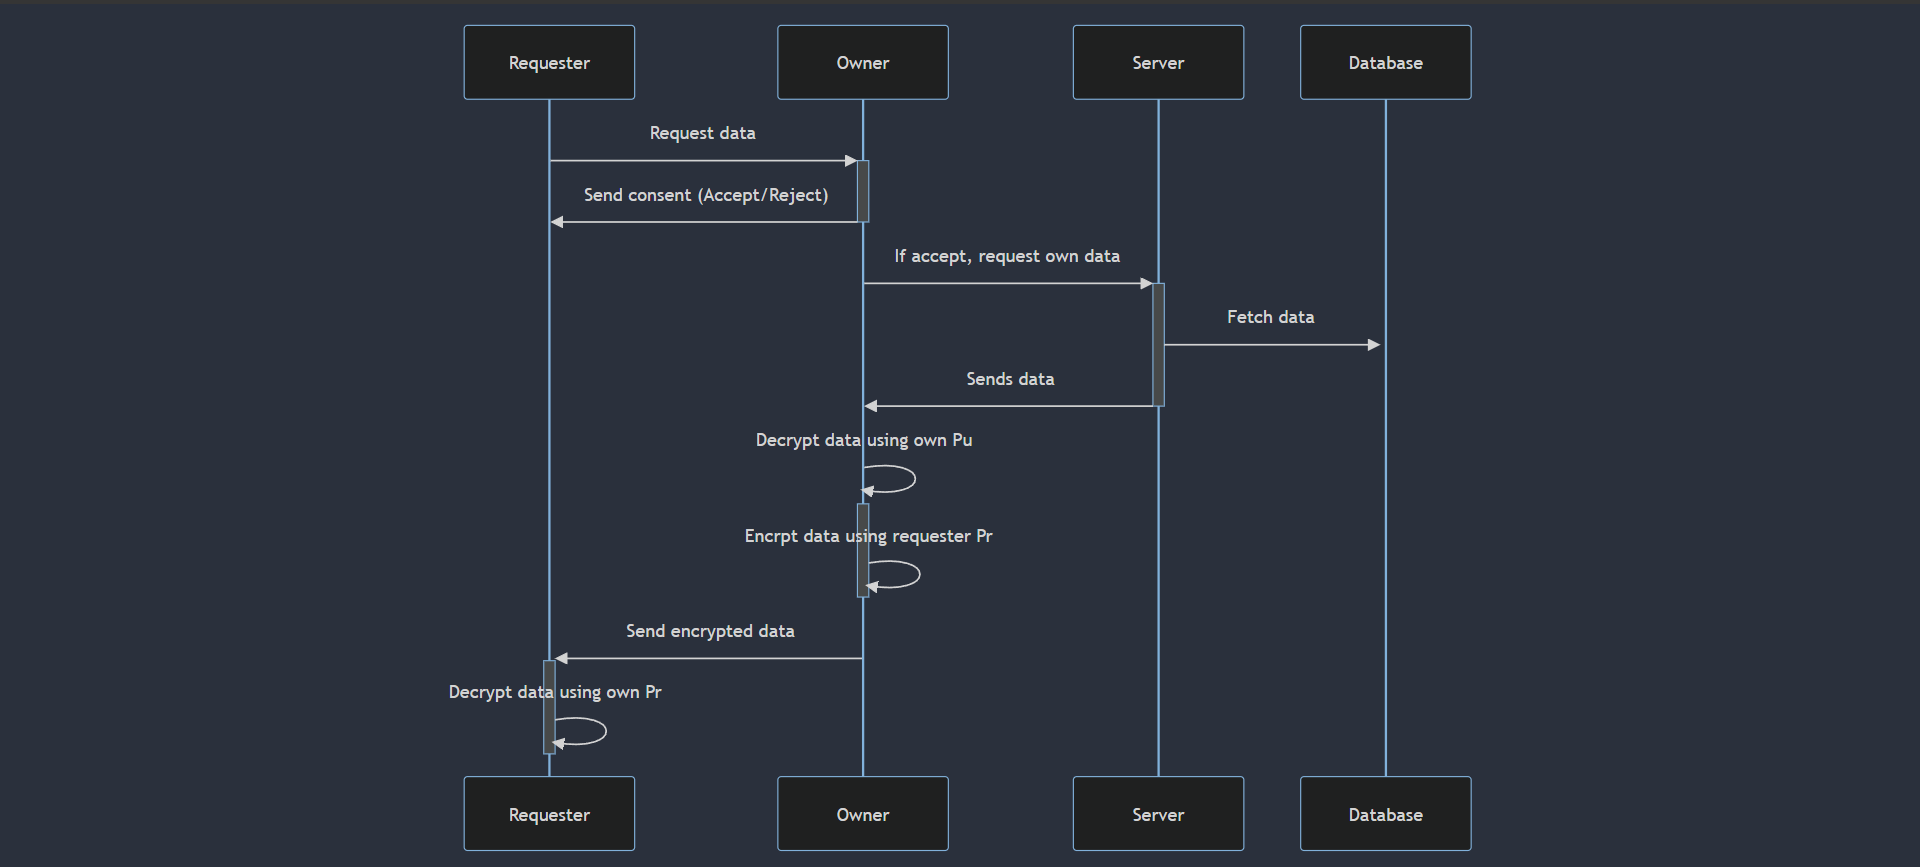
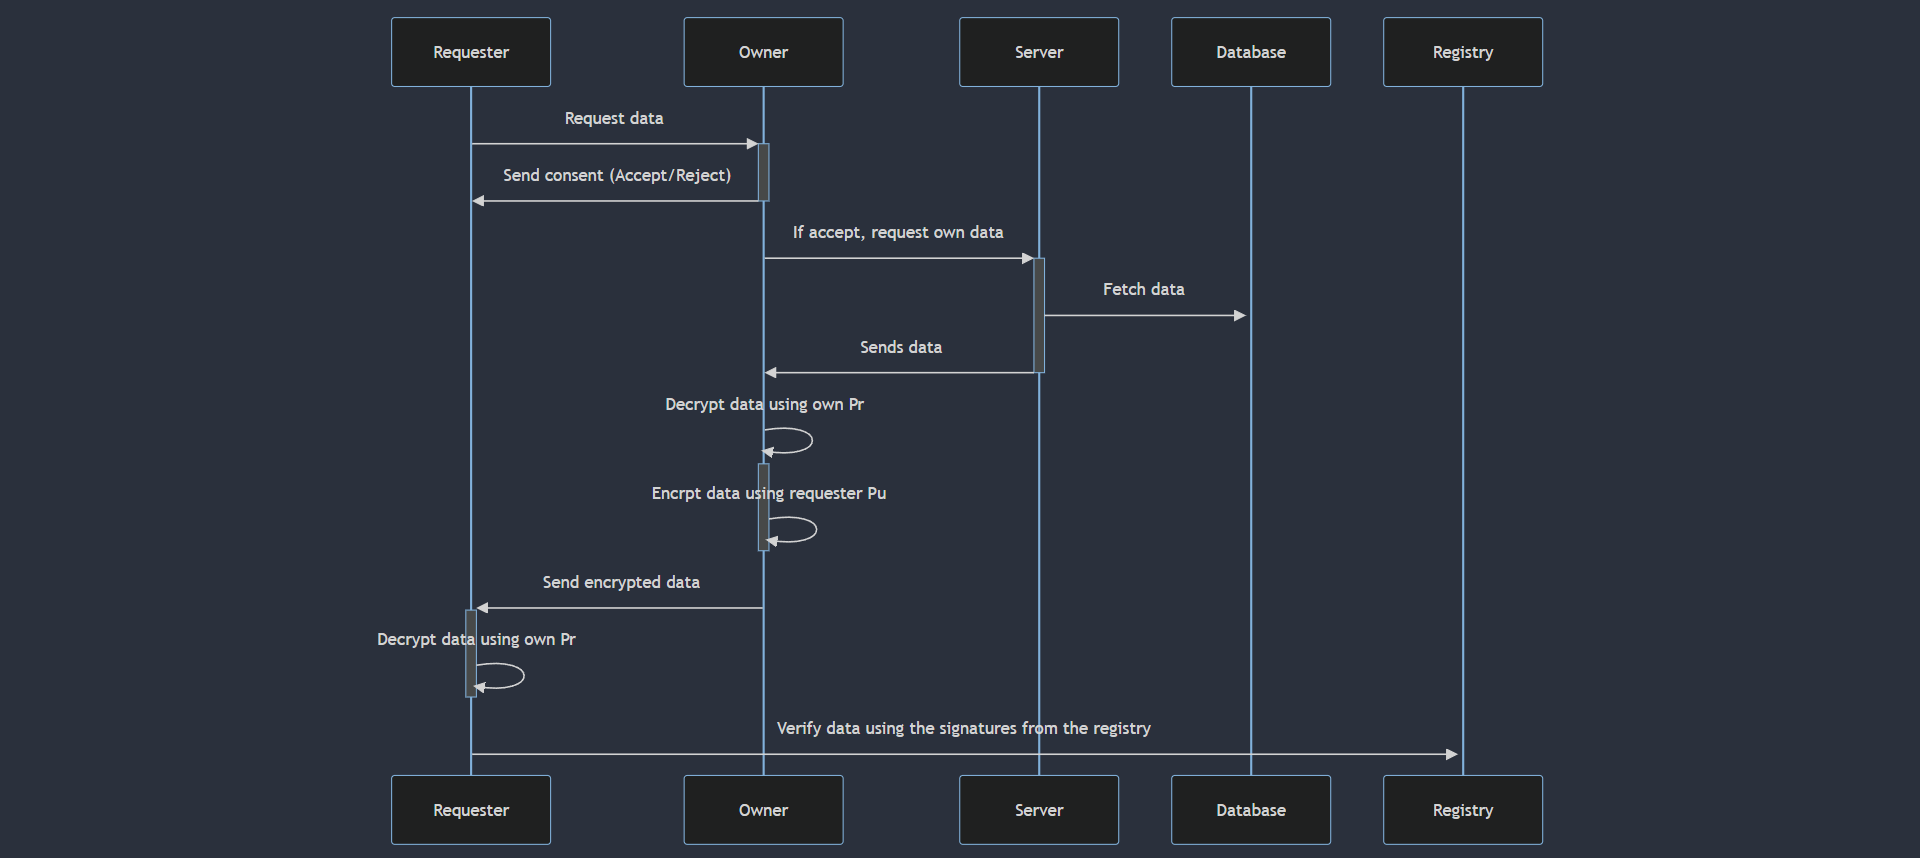
Added getData from server, consent and verify data from frontend

Changed region(s): [[0.1875, 0.0, 0.8125, 0.697], [0.1875, 0.6667, 0.8125, 1.0]]

diff --git a/patient/script.js b/patient/script.js
@@ -1,49 +1,87 @@
-const loginForm = document.getElementById('loginForm');
+const loginForm = document.getElementById("loginForm");
 
-loginForm.addEventListener('submit', (e) => {
+loginForm.addEventListener("submit", (e) => {
     e.preventDefault();
-    const user = document.getElementById('userID').value
-    const pass = document.getElementById('password').value
+    const user = document.getElementById("userID").value;
+    const pass = document.getElementById("password").value;
     const sendData = {
         userId: user,
-        password: pass
-    }
-    
-    axios.post('http://localhost:5050/api/auth/login', sendData)
-    .then(function (response) {
-        console.log(response)
-    })
-    .catch(function (error) {
-        console.log(error);
-    });
-})
+        password: pass,
+    };
 
+    axios
+        .post("http://localhost:5050/api/auth/login", sendData)
+        .then(function (response) {
+            console.log(response);
+        })
+        .catch(function (error) {
+            console.log(error);
+        });
+});
 
+const registerForm = document.getElementById("registrationform");
 
-const registerForm = document.getElementById('registrationform');
-
-registerForm.addEventListener('submit', (e) => {
+registerForm.addEventListener("submit", (e) => {
     e.preventDefault();
 
-    const userID = document.getElementById('userID').value
-    const pass = document.getElementById('password').value
-    const username = document.getElementById('name').value
-    const publickey = document.getElementById('publickey').value 
-    const userRole = document.getElementById('role').value
+    const userID = document.getElementById("userID").value;
+    const pass = document.getElementById("password").value;
+    const username = document.getElementById("name").value;
+    const publickey = document.getElementById("publickey").value;
+    const userRole = document.getElementById("role").value;
 
     const registerFormData = {
         userId: userID,
         password: pass,
         publicKey: publickey,
         name: username,
-        role: userRole
+        role: userRole,
+    };
+
+    axios
+        .post("http://localhost:5050/api/auth/register", registerFormData)
+        .then(function (response) {
+            console.log(response);
+        })
+        .catch(function (error) {
+            console.log(error);
+        });
+});
+
+let verifiablePresentation = {
+    _id: {
+        $oid: "65c2907739806256713f42b8",
+    },
+    header: {
+        fileType: "VC",
+        reportType: "Blood Report",
+        issuerId: "124",
+        userId: "123",
+        credentialId: "1707249783689",
+        createdAt: {
+            $date: "2024-02-06T20:03:03.689Z",
+        },
+    },
+    credentialData: {
+        data: "aknge;anmg;",
+    },
+    signature: {
+        algorithm: "SHA-256",
+        nounce: "1655231637",
[1 lines of base64/hex data omitted]
+    },
+    __v: 0,
+};
+
+const verifyRecords = (verifiablePresentation) => {
+    let verifyData = [];
+    for (const item of verifiablePresentation.credentialData) {
+        const content = {
+            header: item.header,
+            signature: item.signature,
+        };
+        verifyData.push(content);
     }
 
-    axios.post('http://localhost:5050/api/auth/register', registerFormData)
-    .then(function (response) {
-        console.log(response)
-    })
-    .catch(function (error) {
-        console.log(error);
-    });
-})
+    console.log(verifyData);
+};

diff --git a/hospital/script.js b/hospital/script.js
@@ -55,3 +55,47 @@ form.addEventListener('submit', (e) => {
     });
 })
 
+let verifiablePresentation = {
+    header: {
+        title: "jkdnfg"
+    },
+    credentialData: [
+        {
+            _id: {
+                $oid: "65c2907739806256713f42b8",
+            },
+            header: {
+                fileType: "VC",
+                reportType: "Blood Report",
+                issuerId: "124",
+                userId: "123",
+                credentialId: "1707249783689",
+                createdAt: {
+                    $date: "2024-02-06T20:03:03.689Z",
+                },
+            },
+            credentialData: {
+                data: "aknge;anmg;",
+            },
+            signature: {
+                algorithm: "SHA-256",
+                nounce: "1655231637",
[1 lines of base64/hex data omitted]
+            },
+            __v: 0,
+        },
+    ]
+}
+
+const verifyRecords = () => {
+    let verifyData = [];
+    for (const item of verifiablePresentation.credentialData) {
+        const content = {
+            header: item.header,
+            signature: item.signature,
+        };
+        verifyData.push(content);
+    }
+
+    console.log(verifyData);
+};

diff --git a/server/controllers/req.controller.js b/server/controllers/req.controller.js
@@ -1,0 +1,33 @@
+const VerifiableCredential = require("../models/verifiableCredential.model");
+
+const giveConsent = async (req, res) => {
+    const requestHeader = req.body
+    // console.log(requestHeader)
+    const consent = requestHeader.consent;
+    if(consent === true) {
+        const out = await getData(requestHeader)
+        return res.send(out)
+    } else {
+        const response = "Me nahi dunga"
+        return res.send(response)
+    }
+}
+
+
+const getData = async (requestHeader) => {
+    let result = [];
+    for(const cred of requestHeader.credentialId){
+        const content = await VerifiableCredential.findOne({ 
+            "header.userId": requestHeader.ownerId, 
+            "header.reportType": cred
+        })
+        // console.log(content)
+        result.push(content)
+    }
+
+    // console.log(result)
+    return result
+}
+
+
+module.exports = {giveConsent}

diff --git a/server/routes/index.routes.js b/server/routes/index.routes.js
@@ -5,6 +5,7 @@ const { requestPublicKey, uploadData, getOwnReports } = require('../controllers/
 const authRoute = require('./auth.routes');
 const authenticate = require('../middleware/checkAuth');
 const checkRole = require('../middleware/checkRole');
+const { giveConsent } = require('../controllers/req.controller');
 
 router.get('/', (req, res) =>{
     res.send("Hello World")
@@ -17,5 +18,6 @@ router.post('/get-key', authenticate, checkRole(['hospital']), requestPublicKey)
 router.use('/auth', authRoute);
 
 router.get('/view', authenticate, checkRole(["patient"]), getOwnReports)
+router.post('/requestData', giveConsent)
 
 module.exports = router;

diff --git a/hospital/index.html b/hospital/index.html
@@ -84,6 +84,8 @@
         <button type="submit">Submit</button>
     </form>
 
+    <button onclick="verifyRecords()">Click</button>
+
 </body>
 
 <script src="https://cdnjs.cloudflare.com/ajax/libs/crypto-js/4.2.0/crypto-js.min.js" integrity="sha512-a+SUDuwNzXDvz4XrIcXHuCf089/iJAoN4lmrXJg18XnduKK6YlDHNRalv4yd1N40OKI80tFidF+rqTFKGPoWFQ==" crossorigin="anonymous" referrerpolicy="no-referrer"></script>
